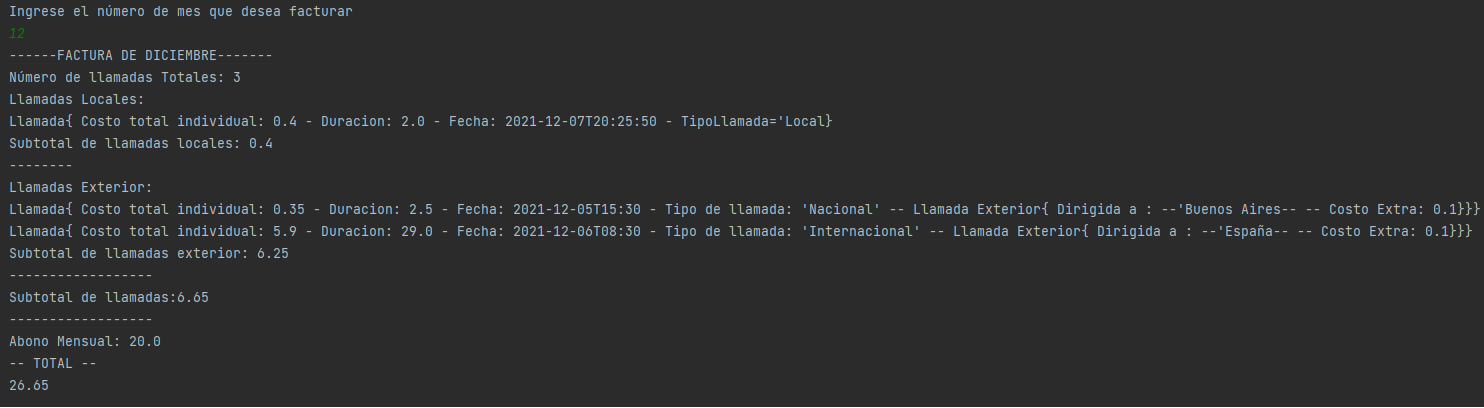
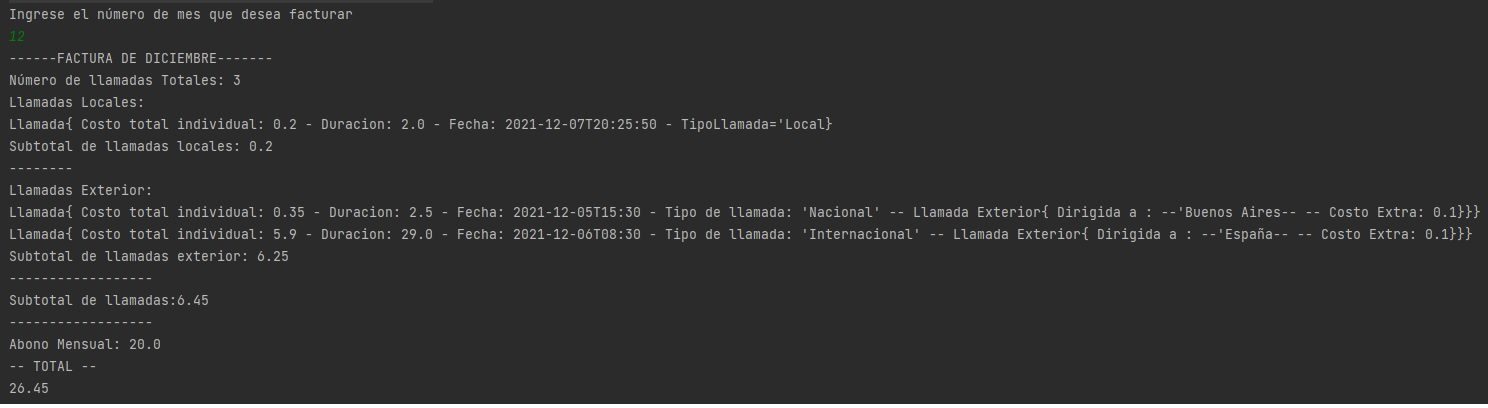
cambio

diff --git a/src/Servicios/LlamadaServicio.java b/src/Servicios/LlamadaServicio.java
@@ -64,7 +64,7 @@ public class LlamadaServicio {
             if (!dia.equalsIgnoreCase("Saturday") && !dia.equalsIgnoreCase("Sunday") && fecha.getHour() >= 8 && fecha.getHour() < 20){
                 l.setCosto(this.truncar(0.20*duracion));
             } else {
-                l.setCosto(this.truncar(0.20*duracion));
+                l.setCosto(this.truncar(0.10*duracion));
             }
         } else {
             if (!dia.equalsIgnoreCase("Saturday") && !dia.equalsIgnoreCase("Sunday") && fecha.getHour() >= 8 && fecha.getHour() < 20){
